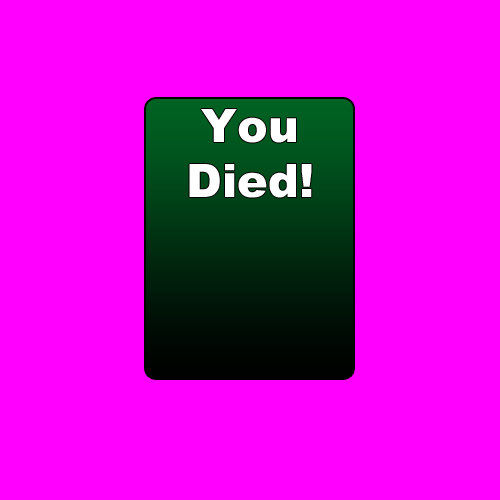
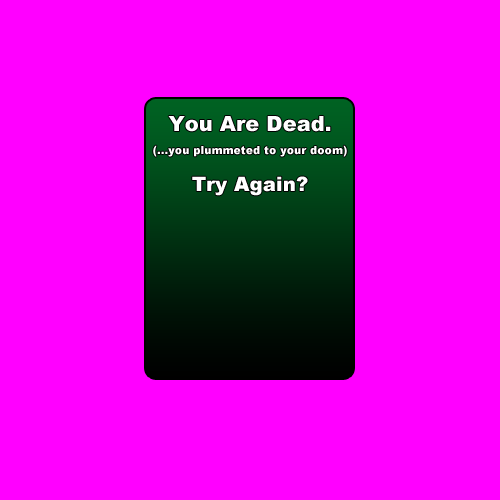
Added a death message.

Changed region(s): [[0.3, 0.21, 0.69, 0.42]]

diff --git a/gobjects.py b/gobjects.py
@@ -110,7 +110,8 @@ class Ball:
                                             level.gstate = glevel.GSTATE_LEFT
                                             self.gSwitched = True
                                 self.touchingBlock = True
-                                level.blocks[i][j].onCollide(self)
+                                #Be careful! Msg can be either a string or None.
+                                msg = level.blocks[i][j].onCollide(self)
                             if self.newLocY.colliderect(level.blocks[i][j].rec):
                                 if (self.state == MODE_NORMAL or self.state == MODE_ON_VINE) and level.blocks[i][j].stopsPMovement:
                                     self.collpassy = False
@@ -129,7 +130,8 @@ class Ball:
                                             if level.blocks[i][j].rec.centery < self.rec.centery:
                                                 level.gstate = glevel.GSTATE_UP
                                 self.touchingBlock = True
-                                level.blocks[i][j].onCollide(self)
+                                #Be careful! Msg can be either a string or None.
+                                msg = level.blocks[i][j].onCollide(self)
                 
             #if collision checks pass, set location to new locations respectively
             self.inAirx = False

diff --git a/gblocks.py b/gblocks.py
@@ -164,6 +164,7 @@ class Spikes(Block):
             screen.blit(bimages.spike8, self.drec)
     def onCollide(self, ball):
         ball.alive = False
+        return 'You have plummeted to your demise!'
 class Switch(Block):
     def __init__(self, x, y, stype):
         Block.__init__(self)
@@ -227,6 +228,7 @@ class Chaser(Block):
         screen.blit(bimages.chaser, self.rec)
     def onCollide(self, ball):
         ball.alive = False
+        return 'You have been slain by a Chaser!'
     def setDirection(self, ball):
         sx = ball.rec.left - self.rec.left
         sy = ball.rec.top - self.rec.top

diff --git a/gscreens.py b/gscreens.py
@@ -87,9 +87,9 @@ class GameScreen(gui.Screen):
         self.colorkey = self.gameoverI.get_at((0,0))
         self.gameoverI.set_colorkey(self.colorkey, pygame.RLEACCEL)
         self.gameoverRec = self.gameoverI.get_rect()
-        self.respawnButton = gui.Button(0,0,'Retry',3)
+        self.respawnButton = gui.Button(0,0,'Why Not',3)
 
-        self.bgroup2 = gui.ButtonGroup((width/2),height*.5,70)
+        self.bgroup2 = gui.ButtonGroup((width/2)-10,height*.5,70)
         self.bgroup2.add(self.respawnButton)
 
         #Background

diff --git a/glevel.py b/glevel.py
@@ -34,7 +34,6 @@ class Level:
         #Growth variables
         self.dirtCount = 0
         self.grownCount = 0
-        self.pause_image = pygame.image.load('res/p_btn.png')
         self.leavesI = pygame.image.load('res/leaves.png')
         self.leavesLoc = [width - 70,height - 30]
         self.leavesTextOffset = [27,0]
